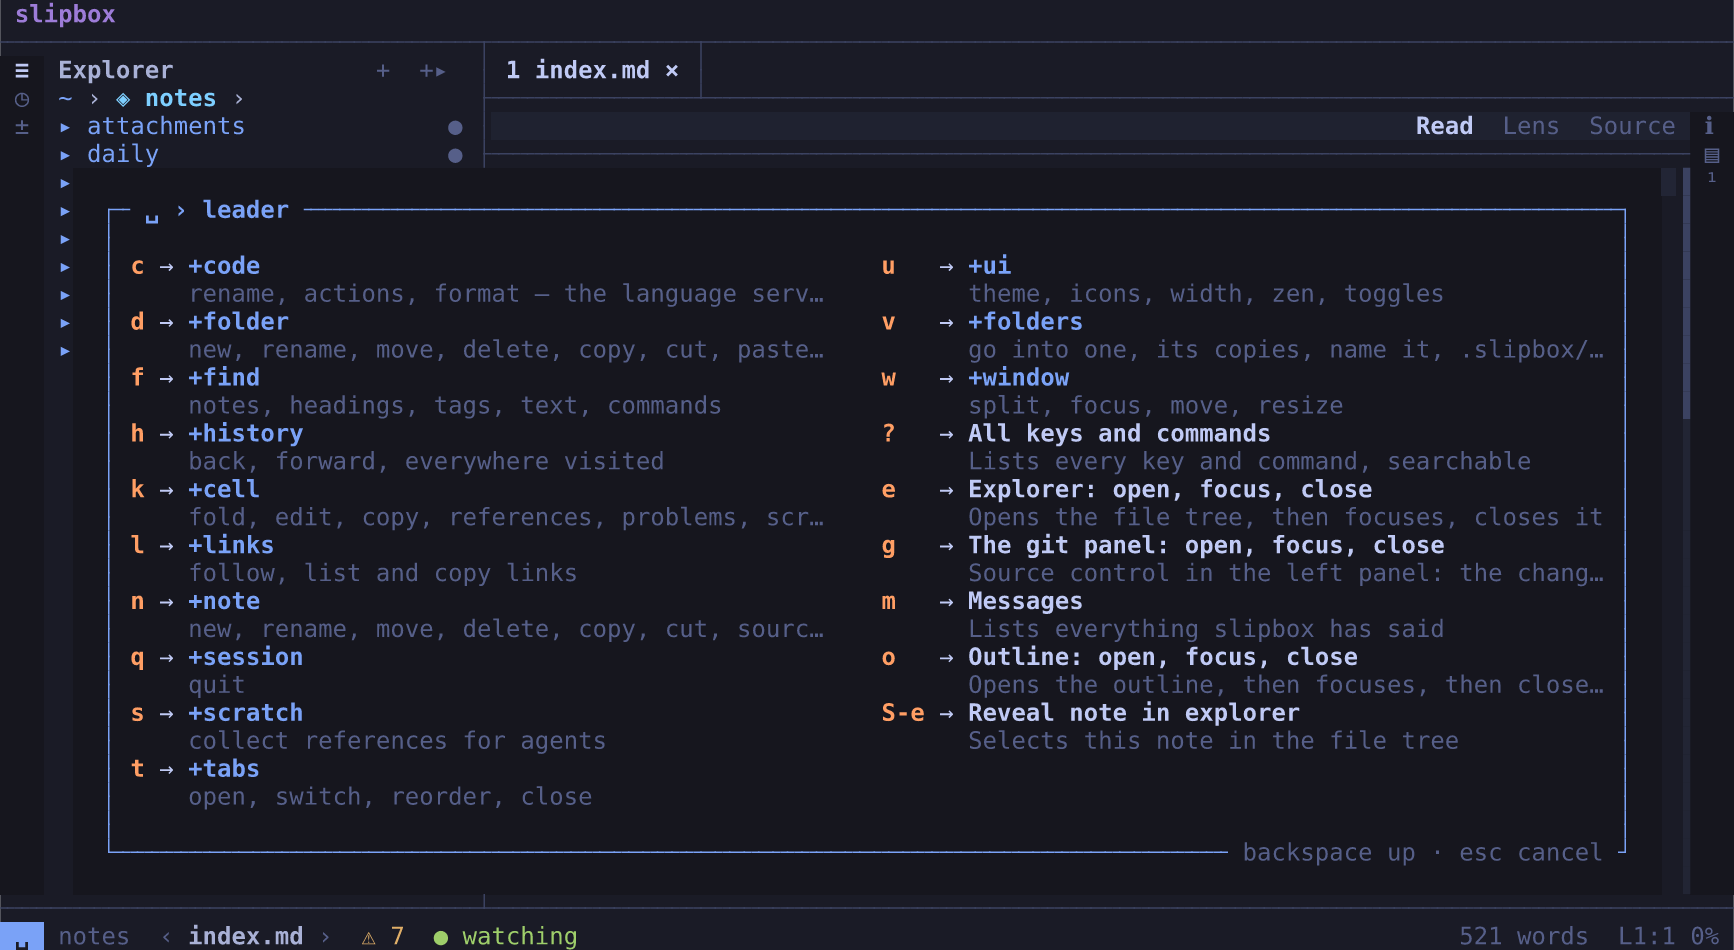
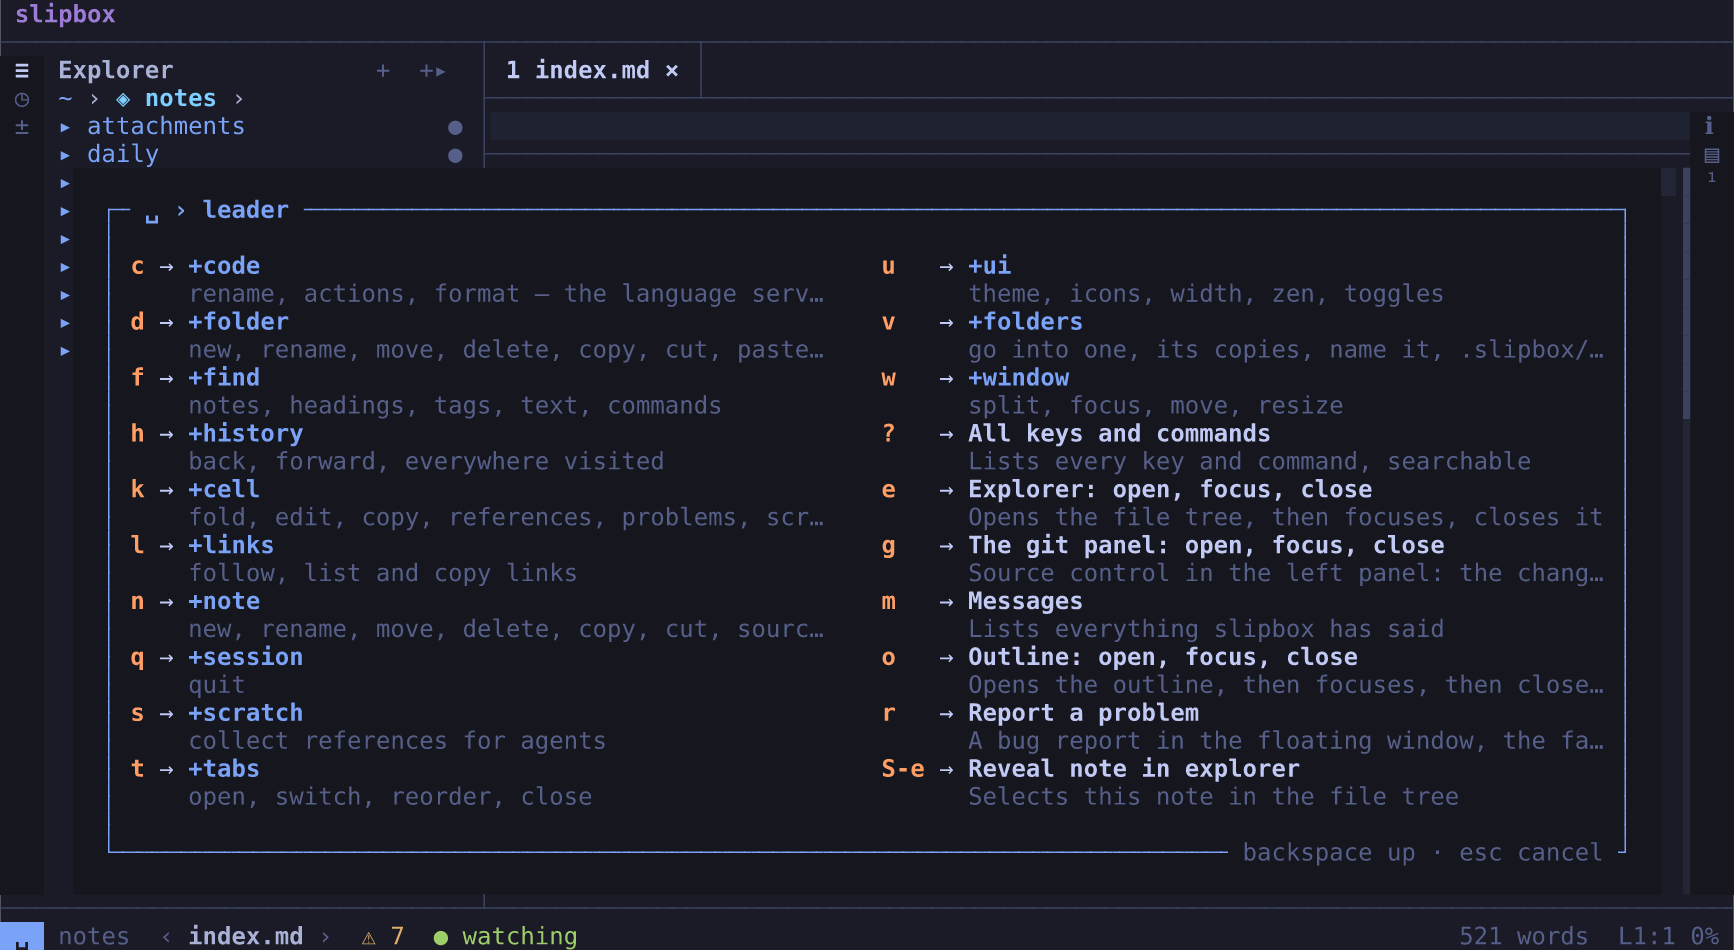
docs: reporting a problem: space r, slipbox report, what leaves and how (RPT-T6)

Changed region(s): [[0.4983, 0.7326, 0.9343, 0.8547], [0.8097, 0.1221, 0.9654, 0.1526], [0.4983, 0.7326, 0.5294, 0.7632]]

diff --git a/blueprint/workstreams/reporting-a-problem/design.md b/blueprint/workstreams/reporting-a-problem/design.md
@@ -9,17 +9,18 @@ decisions.md.
 with what slipbox knows already in it, in the floating window (`3.20`) as a commit's message is (RPT-D1). Its text is
 the report exactly as it will leave; nothing leaves until you send it, and you send it, never slipbox (RPT-D3).
 
-**The window.** Kind `report`, a virtual Markdown buffer (`report:`) in source mode, made as the commit's is: outside
+**The window.** Kind `report`, a virtual Markdown buffer (`report`) in source mode, made as the commit's is: outside
 the app's buffers, so it's never in the unsaved list that stops a quit, never autosaved, never in the history or the
 session. The `Reporter` (`app.report`) keeps the buffer and its view while the window is closed. Titled "Report a
 problem"; its bottom border says ` ctrl+s sends it or adds the screen · esc · q leaves it ` (never the floating
-window's "writing back"). It opens typing, on the title's line; the first `esc` leaves typing, the next leaves the
-window. Its text:
+window's "writing back"); the status line names it `report`, with no "unsaved" mark, since it's never saved anywhere.
+A new one opens typing, on the title's line (empty, the line after the guide); the first `esc` leaves typing, the next
+leaves the window. Opened again, it's as it was left, not typing. Its text, the title typed:
 
 ````markdown
 <!-- Nothing has left yet. The next line is the title; ctrl+s sends it all, or adds the screen first. -->
 
-The title, one line
+Links lose their anchors
 
 ### What happened
 
@@ -29,7 +30,7 @@ The title, one line
 
 ### Version
 
-0.5.1 (stable channel, linux-arm64 build, Bun 1.3.1)
+0.5.1 (the installer's, stable channel, linux-arm64 build, Bun 1.3.1)
 
 ### Installed with
 
@@ -50,8 +51,8 @@ ghostty 1.2.0, TERM_PROGRAM herdsman 0.2.0, TERM xterm-ghostty, 236×60, inside 
 - `esc` leaves it; opened again, it's as you left it, the facts kept as edited. The draft is kept in memory only,
   never written to disk by slipbox, until `gh` has posted it or slipbox quits. (A copy you make is a copy: when no
   clipboard takes it, it's the state folder's `clipboard.txt`, as every copy's, and said.)
-- `ctrl+s` (`:w`) calls the buffer's own save, which opens the menu (§ Sending); the buffer counts as saved after,
-  which means nothing here and is never said as "sent".
+- `ctrl+s` (`:w`) is `note.save`, which, in the report as in the commit's window, calls the buffer's own save whether
+  it changed or not: that runs `help.report_send`, the menu (§ Sending). Never said as "saved" or "sent".
 
 **Reading it back.** The copy and `gh` send the text as you left it, the generated guide taken out (and for `gh`, the
 title line, which becomes its title); nothing in them is moved or joined. Only the address maps the text onto the
@@ -73,18 +74,21 @@ form's fields, by one rule, which also says where an added screen goes:
 
 **The facts** (`core/report.ts`, RPT-D1), the same as `slipbox report` prints:
 
-- **Version:** `VERSION`; the channel only for the installer's install (`readChannel`, which says stable when there's
-  no file, so never asked of another); the release's platform (`RELEASE.target`), or "from source or built by hand"
-  when there's no release; Bun's version.
+- **Version:** `VERSION`; how it was installed, in a word ("the installer's", "Homebrew's", "a release put in place by
+  hand", "from source or built by hand"), since the form's dropdown may not fill from the address (RPT-D3); the channel
+  only for the installer's install (`readChannel`, which says stable when there's no file, so never asked of
+  another); the release's platform (`RELEASE.target`); Bun's version.
 - **Installed with:** the form's own wording: "the installer (install.sh)", "Homebrew" (`installedBy`), "from
   source" (no `RELEASE`); a release's binary put somewhere by hand says so in words of its own.
-- **Platform:** the system's name and version (Linux's `/etc/os-release` `PRETTY_NAME`; macOS's
-  `SystemVersion.plist`), the kernel (`os.release()`), the processor (`process.arch`), and WSL when it's there
-  (`core/wsl.ts`).
+- **Platform:** the system's name and version (Linux's `/etc/os-release` `PRETTY_NAME`, else its `NAME` and
+  `VERSION`; macOS's `SystemVersion.plist`), the kernel (`os.release()`), the processor (`process.arch`), and WSL when
+  it's there (`core/wsl.ts`): `Ubuntu 24.04.1 LTS in WSL (Linux 5.15.167.4-microsoft-standard-WSL2), x64`.
 - **Terminal:** what the terminal answered when asked who it is (OpenTUI's `capabilities.terminal`, from XTVERSION;
   the TUI only), `TERM_PROGRAM` and its version, `TERM`, the size in cells, the multiplexer and SSH. The multiplexer is
-  OpenTUI's when it names one, else the environment's (`TMUX`, `ZELLIJ`, `STY`, `HERDSMAN_ENV`, `HERDR_ENV`): OpenTUI's
-  `none` or `unknown` never hides what the environment says. SSH is `SSH_CONNECTION`, `SSH_CLIENT` or `SSH_TTY` set, or
+  OpenTUI's when it names one, and the environment's (`TMUX`, `ZELLIJ`, `STY`, `HERDSMAN_ENV`, `HERDR_ENV`, each set
+  and not empty), each once: OpenTUI's `none` or `unknown` never hides what the environment says. The terminal's own
+  name is the XTVERSION answer's alone (OpenTUI's `from_xtversion`), else none: `TERM_PROGRAM` says it apart. Nothing
+  known at all, "not known". SSH is `SSH_CONNECTION`, `SSH_CLIENT` or `SSH_TTY` set, or
   OpenTUI's `remote`. These are presence only: an address, a socket path or a session's name is never written.
 - Each value from the environment or a file is sanitized (`2.9`) and cut to a line.
 
@@ -95,7 +99,9 @@ form's fields, by one rule, which also says where an added screen goes:
   the screen's size (`tui/canvas.ts`) beside the terminal's canvas, that frame only; the window opens on the next. Its
   rows, with their trailing blanks cut. A picture isn't text, and isn't in it.
 - **Where you were:** the window's file (its path in the vault, else from home, `~/…`), the cursor's line number and
-  that line's text, and whether it was rendered or source.
+  how it was shown (rendered, source, the lens open; nothing said for a file that isn't a note), then that line's
+  text: `handbook/operations-handbook.md, line 3, rendered`. A window with no file (a hover, none open): "no file was
+  open".
 
 `:report screen` or `:report where` (`help.report screen|where`), or the menu, adds one to the report, in full, in a
 ```` ```text ```` fence longer than any run of backticks inside, so a note's own fences can't end it, under a first
@@ -107,8 +113,10 @@ undo step: `u` takes it out. Added is its first line being in the text: deleted,
 entry is gone and the command says so. Opened again, the window keeps what was added; the screen kept is the newer
 one.
 
-**Sending** (`ctrl+s`, `:w`: `help.report_send`; RPT-D3, RPT-D4). A menu, titled with what it found (below), each
-entry with its key; only those this machine can do, and each says what it does with what:
+**Sending** (`ctrl+s`, `:w`: `help.report_send`; RPT-D3, RPT-D4). A menu, "Send the report — nothing has left yet",
+each entry with its key and run as its command (`help.report_send browser`, `help.report screen`, …); only those this
+machine can do, each saying what it does with what (the address's what it leaves out). Text that belongs to no field
+heads it, said, and `o` and `a` aren't there:
 
 | Key | Entry | Shown |
 | --- | --- | --- |
@@ -131,28 +139,29 @@ entry with its key; only those this machine can do, and each says what it does w
   else the facts alone; else none but the template. `o` and `a` say what they leave out ("filled in but What slipbox
   sees: v copies it"), and `c` copies everything. Text that belongs to no field (§ Reading it back) leaves `o` and `a`
   out, said.
-- **One copy at a time:** each entry puts one thing on the clipboard, never two in a row. `o` copies nothing when the
+- **One copy at a time:** each entry puts one thing on the clipboard, never two in a row; another asked for while one
+  is being made is refused ("still copying — wait for it"). `o` copies nothing when the
   browser opens; when it can't, it copies the address and says what's still left out (`v`, `c`). Each copy is said
   as `App.copy` says it — by OSC 52, which a terminal never confirms; by the system's tool; or written to
   `clipboard.txt` — and a copy refused (the clipboard busy) is said, never claimed.
 - **The browser** (`core/browser.ts`): `open` on macOS; in WSL, `wslview`, else `explorer.exe`; elsewhere `xdg-open`
   when there's a display (`DISPLAY`, `WAYLAND_DISPLAY`); none over SSH, where a browser would open on that machine,
   not yours — the entry isn't shown, and `a` copies the address to your terminal's clipboard (OSC 52). Run as an
-  argument vector (`13.2`), detached, nothing read from it; its exit waited for a few seconds: a failure copies the
-  address instead and says why (`explorer.exe` answers 1 when it worked: not taken for one). A link to the web is
-  still copied, never opened (§ Following links, unchanged): this is the one place slipbox opens a browser, because
-  it's what you chose.
+  argument vector (`13.2`) by the host's `runDetached`, nothing read from it; its exit waited for five seconds, one
+  that hasn't answered by then taken to have opened it: a failure copies the address instead and says why
+  (`explorer.exe` answers 1 when it worked: not taken for one). A link to the web is still copied, never opened
+  (§ Following links, unchanged): this is the one place slipbox opens a browser, because it's what you chose.
 - **gh** (`core/gh.ts`): nothing is run until you choose it. Then the account, as gh will use it, without the
   network: a token in `GH_TOKEN` or `GITHUB_TOKEN` comes before what gh keeps, so then it's "the account of
-  `GH_TOKEN`", unchecked; else the account gh keeps (`gh config get -h github.com user`); neither, and it says
-  `gh auth login` first. A yes-or-no names everything: `Post "<title>" on <repo> as <account>? Anyone can read it.`
-  On yes, the title and text
+  GH_TOKEN (not checked)"; else the account gh keeps (`gh config get -h github.com user`); neither, and it says
+  `gh auth login` first. gh is run with `GH_PROMPT_DISABLED=1`, so it never waits on a question of its own. A
+  yes-or-no names everything: `Post "<title>" on <repo> as <account>? Anyone can read it.` On yes, the title and text
   as they are then are posted — `gh issue create --repo <repo> --title <title> --body-file -`, the text after the
   title on its input — from the home folder (never the vault's, so no folder's settings reach it), waited for up to a
-  minute. While it posts, the window is closed and the report can't be opened or posted again ("posting with gh…").
-  Done: the issue's address said, the draft dropped. Failed: gh's first lines said, the draft kept. No answer in a
-  minute: the draft kept, and said that it may have posted — look at the issues before posting again. No title, or no
-  What happened, and it asks for them first.
+  minute. While it posts, the window is closed and the report can't be opened or posted again ("posting the report
+  with gh… — wait for it"). Done: the issue's address said, the draft dropped. Failed: gh's first lines said, the
+  draft kept. No answer in a minute: gh killed, the draft kept, and said that it may have posted — look at the issues
+  before posting again. No title, or no What happened, and it asks for them first.
 - The window stays open after the browser or a copy, to send again another way.
 
 **Commands.** `help.report` (`space r`, `:report`; CLI: `slipbox report`) opens the report, or with `screen` or
@@ -202,6 +211,8 @@ Previously: no rows for them.
 
 ## MODIFIED design/trust.md § What runs
 
+Its links are written as from this file; in trust.md they're `../../docs/…`, as they are there now.
+
 The first paragraph, in full:
 
 slipbox runs programs you chose: your editor, git, and the servers and linters found in your config, on `PATH`, in
@@ -219,12 +230,12 @@ In the second paragraph, the sentence on keys, in full:
 
 Nor may a folder's `[keys]` or `[aliases]` name a command that throws work away or runs a program (`shell.run`,
 `shell.filter`, `help.report_send`), so a clone can't put one on `ctrl+s` or `:wq` (`USER_ONLY`, each with its reason,
-and `VAULT_FORBIDDEN_COMMANDS` in `core/config.ts`; [configuration.md](../../docs/manual/configuration.md), "What
+and `VAULT_FORBIDDEN_COMMANDS` in `core/config.ts`; [configuration.md](../../../docs/manual/configuration.md), "What
 only your own file can set").
 
 Previously: Nor may a folder's `[keys]` or `[aliases]` name a command that throws work away or runs a program
 (`shell.run`, `shell.filter`), so a clone can't put one on `ctrl+s` or `:wq` (`USER_ONLY`, each with its reason, and
-`VAULT_FORBIDDEN_COMMANDS` in `core/config.ts`; [configuration.md](../../docs/manual/configuration.md), "What only
+`VAULT_FORBIDDEN_COMMANDS` in `core/config.ts`; [configuration.md](../../../docs/manual/configuration.md), "What only
 your own file can set").
 
 ## No design change: the bug form

diff --git a/docs/manual/troubleshooting.md b/docs/manual/troubleshooting.md
@@ -291,7 +291,46 @@ Report a bug in slipbox's issues on GitHub, with the bug report form:
 A question, or an idea for slipbox, goes in its [Discussions](https://github.com/remziduzagac/slipbox/discussions)
 instead.
 
-A useful bug report holds:
+### From slipbox: `space r`
+
+`space r` (or `:report`, or "Report a problem" in help) opens a report in a floating window. It's the bug form's
+questions, with what slipbox knows already filled in:
+
+- its version, how you installed it and the releases it follows
+- your system and its processor
+- your terminal, its size, and any multiplexer or SSH between it and slipbox (only that it's there, never an address)
+
+You type the title on the first line, then what happened, what you expected and the steps under their headings. Every
+line is text you can change: cut a path or a name you'd rather not share.
+
+The screen as it was, as text, and where you were (the file, the cursor's line and its text) are kept, but they're in
+the report only when you add them. `ctrl+s` offers to, or `:report screen` and `:report where`. Added, it's there in
+full under "What slipbox sees", for you to read first; `u` takes it out again. A picture on the screen isn't text, and
+isn't in it.
+
+`ctrl+s` then sends it the way you choose. slipbox itself sends nothing:
+
+- **`o`**: the bug form opens in your browser, filled in. You read it there and press Submit.
+- **`a`**: the bug form's address, filled in, is copied. Over SSH there's no browser of yours to open, so this is the
+  way: your terminal puts it on your own machine's clipboard, to paste into your browser.
+- **`c`**: the report is copied as Markdown, to paste wherever you like.
+- **`g`**: with GitHub's `gh` installed, it's posted by `gh issue create`, after a yes that names the title, the
+  repository and the account. Anyone can read an issue.
+
+What's too long for an address (a screen, often) is left out of it, and said; `v` copies it, to paste into the form's
+"What slipbox sees". The report is kept until slipbox quits, or until `gh` has posted it: `esc` leaves it, `space r`
+opens it again as you left it. slipbox never writes it to disk. A copy you make with no clipboard to take it goes to
+`clipboard.txt` in slipbox's state folder, as every copy does, and says so.
+
+### From the command line: `slipbox report`
+
+`slipbox report` prints the same facts, and the bug form's address filled in with them, to open in your browser.
+`slipbox report --json` gives them to an agent writing an issue ([The command line](cli.md#report)). It works in any
+folder, even one whose settings are broken.
+
+### What a report holds
+
+A useful bug report holds the following. `space r` and `slipbox report` fill in the first two.
 
 - **The version**: `slipbox --version`, and how you installed it (a release, Homebrew, or from source).
 - **Your system and terminal**: the operating system, the terminal and its version, and any multiplexer (tmux, zellij)

diff --git a/docs/manual/privacy.md b/docs/manual/privacy.md
@@ -29,7 +29,8 @@ Built-in requests include:
 The settings are in your config file ([Configuration](configuration.md)).
 
 Installing slipbox and `slipbox upgrade` also download files when you ask them to
-([Installation](../guides/install.md)). Explicit Git fetch, pull and push contact your repositories
+([Installation](../guides/install.md)). A report (`space r`) reaches GitHub only through your browser or `gh`,
+when you send it ([below](#what-slipbox-never-sends)). Explicit Git fetch, pull and push contact your repositories
 [as described below](#git-and-your-repositories-remotes). Git can also fetch missing objects or LFS files as part
 of another operation. Language servers and other external programs may make their own requests; see
 [Programs slipbox runs](#what-slipbox-runs).
@@ -147,6 +148,10 @@ same from your shell. For example:
 - **No telemetry, no analytics, no crash reports.** slipbox does not collect telemetry or send analytics. Explicit
   operations can send data: Git push sends commits to a remote, and programs you run have their own behavior. Review
   exports and copied text before sharing.
+- **A report is sent by you, never by slipbox.** `space r` writes a report you read in full before anything leaves. It
+  goes only when you choose: in your browser, which you submit; copied, to paste; or by `gh`, after a yes. The screen,
+  and the note you were in, are in it only when you add them
+  ([Reporting a problem](troubleshooting.md#reporting-a-problem)).
 - **Bun's crash reports are off.** slipbox runs on Bun. When Bun crashes, it can send a report to Bun's developers.
   slipbox turns this off as it starts.
 
@@ -165,6 +170,9 @@ slipbox runs programs you chose, never one a folder names:
 - **Language servers and linters** for code, and **markdownlint-cli2** for notes ([Code](code.md)).
 - **Your shell**, for a command you type after `:!`.
 - **Your clipboard's tool** (`pbcopy`, `wl-copy`, `xclip`, `xsel`, or Windows' in WSL), to copy and paste.
+- **Your browser**, by your system's way of opening one (`open`, `xdg-open`, `wslview` or `explorer.exe`), when you
+  open the bug form from a report. Never over SSH, where it would open on that machine, not yours.
+- **`gh`**, when you post a report with it, after a yes.
 - **Bun**, which slipbox carries, to install a language server.
 - **`tar`**, when `slipbox upgrade` unpacks a release.
 

diff --git a/docs/manual/customization.md b/docs/manual/customization.md
@@ -94,8 +94,8 @@ These come from your own file only. In a folder's file, each is ignored, with a 
 - **`walk.root_markers`.** Where vaults are is settled before any folder's file is read.
 - **`git.worktrees`.** Where slipbox makes a worktree's folder, outside the vault, is yours to say.
 - **A key or alias bound to a command that throws work away or runs a program:** `app.quit_force`, `note.revert`,
-  `note.save_force`, `scratch.clear`, `shell.run` and `shell.filter`. A clone can't put a quit without saving on
-  `ctrl+s`, or a program of its choosing on `:wq`. Your own file may: `"g m" = "shell.run make"`.
+  `note.save_force`, `scratch.clear`, `shell.run`, `shell.filter` and `help.report_send`. A clone can't put a quit
+  without saving on `ctrl+s`, or a program of its choosing on `:wq`. Your own file may: `"g m" = "shell.run make"`.
 
 A folder's file may give a language server only its settings (`config`). They reach the server only in a vault you
 trust, as a project's `.vscode/settings.json` would. Some servers' settings name programs to run.

diff --git a/CHANGELOG.md b/CHANGELOG.md
@@ -15,6 +15,12 @@ The format is [Keep a Changelog 1.1.0](https://keepachangelog.com/en/1.1.0/); wh
   mode, Lens mode and Source mode, to bind keys to.
 - **Window header** in `space u u`, or `ui.window_header = false`, hides the whole row and gives it to the note, as
   hiding the breadcrumb used to.
+- Report a problem from inside slipbox: `space r` (or `:report`) opens the bug form's questions in a window, with the
+  version, how slipbox was installed, the system, the terminal and its size, any multiplexer and SSH already filled
+  in. The screen as text, or where you were, goes in only when you add it, in full. `ctrl+s` sends it the way you
+  choose: the bug form in your browser, filled in; its address or the report copied (over SSH, to your own
+  clipboard); or posted with `gh` after a yes. slipbox itself sends nothing. `slipbox report` (and `--json`) prints
+  the same facts and the form's address, for an agent writing an issue.
 
 ### Changed
 

diff --git a/blueprint/workstreams/reporting-a-problem/tasks/docs.md b/blueprint/workstreams/reporting-a-problem/tasks/docs.md
@@ -1,5 +1,5 @@
 ---
-status: doing
+status: done
 assignee: claude-5
 blocked_by: [RPT-T5]
 created: "2026-10-24"
